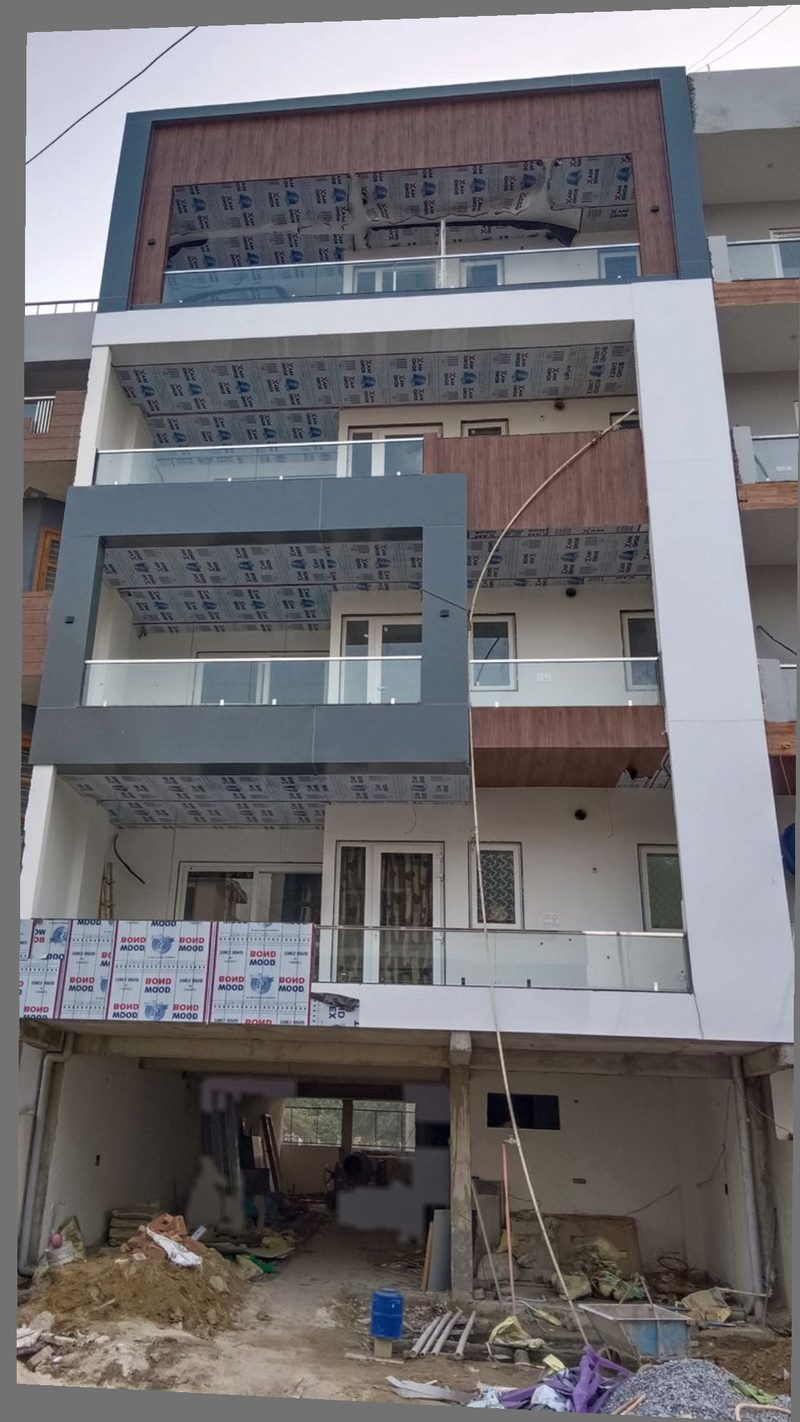
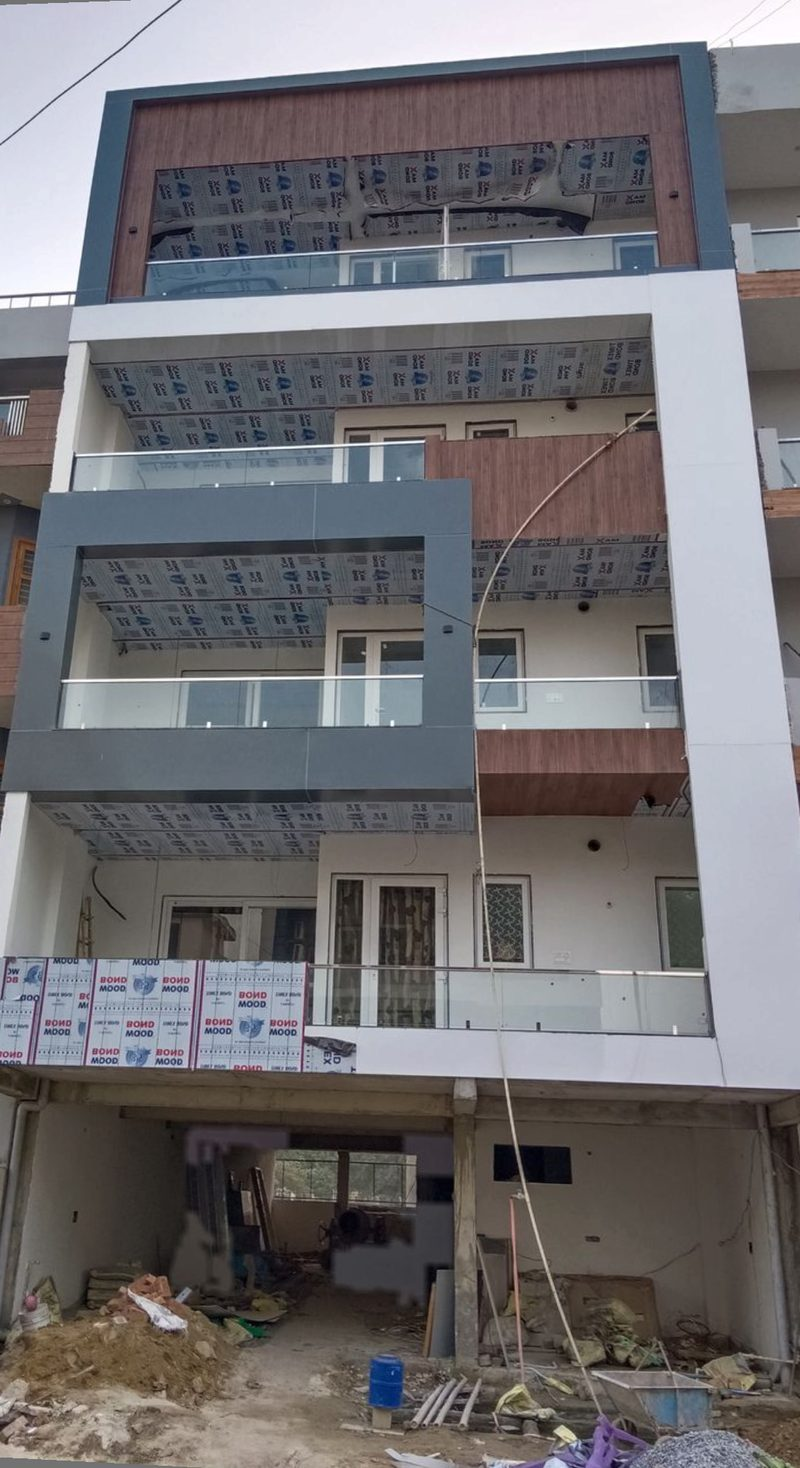
Fix services photo edge border

diff --git a/css/style.css b/css/style.css
@@ -224,7 +224,7 @@ section{scroll-margin-top:84px}
 
 .services__layout{display:grid;grid-template-columns:.8fr 1.2fr;gap:20px;align-items:stretch}
 .services__image{border-radius:var(--radius);overflow:hidden;min-height:560px}
-.services__image img{width:100%;height:100%;object-fit:cover}
+.services__image img{display:block;width:100%;height:100%;object-fit:cover;object-position:center}
 
 .services__grid{display:grid;grid-template-columns:1fr 1fr;gap:16px;align-content:start}
 .svc-card{
